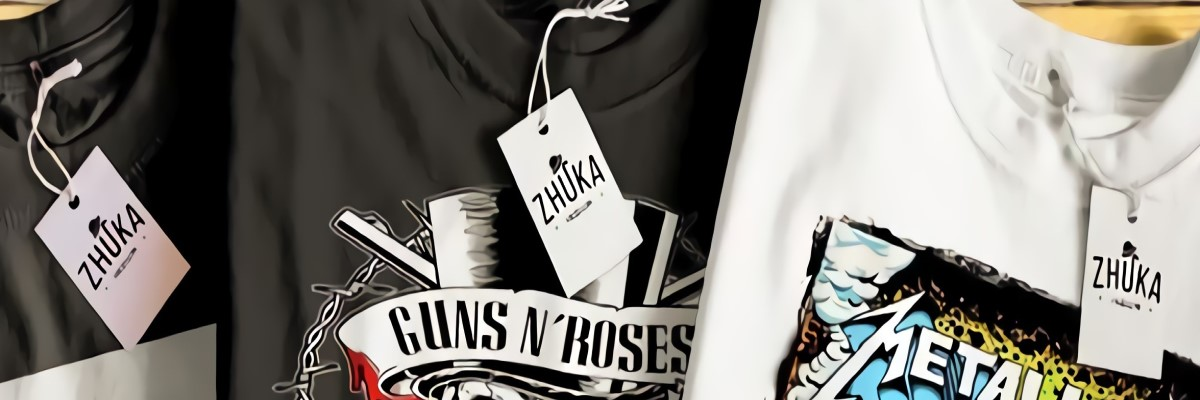
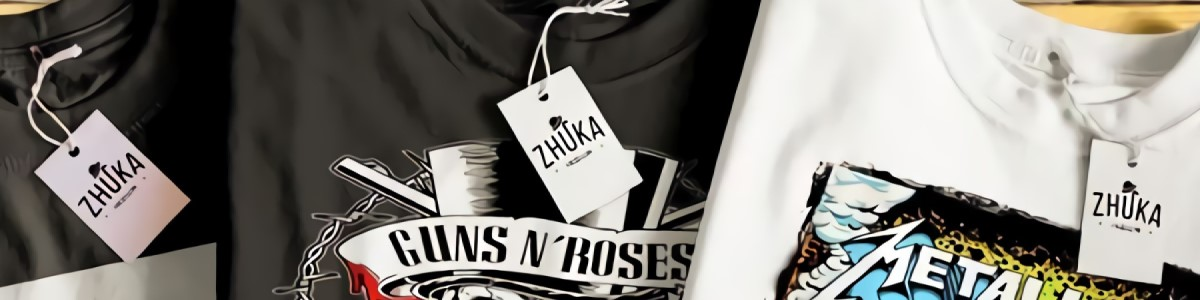
Primera subida

diff --git a/css/style.css b/css/style.css
@@ -65,7 +65,7 @@ body a:hover{
 	-moz-background-size:cover;
 	-o-background-size:cover;
 	-ms-background-size:cover;
-	min-height:800px;
+	min-height:400px;
 }
 .banner1{
 	background:url(../images/banner1.jpg) no-repeat 0px 0px;
@@ -1493,7 +1493,7 @@ a.list-group-item:hover, a.list-group-item:focus {
 		-moz-background-size: cover;
 		-o-background-size: cover;
 		-ms-background-size: cover;
-		min-height: 760px;
+		 
 	}
 }
 @media (max-width:1366px){
@@ -2073,7 +2073,7 @@ a.list-group-item:hover, a.list-group-item:focus {
 		-moz-background-size: cover;
 		-o-background-size: cover;
 		-ms-background-size: cover;
-		min-height: 540px;
+		min-height: 400px;
 	}
 }
 @media (max-width:320px){

diff --git a/index.html b/index.html
@@ -55,7 +55,7 @@
 <body>
 <!-- PRINCIPAL -->
 	<div class="banner">
-		<div class="container">
+		<div class="container" >
 			<div class="header-nav">
 				<nav class="navbar navbar-default">					 
 					<div class="navbar-header">
@@ -99,7 +99,7 @@
 				 
 				</div>
 				<div class="col-md-6 about-grid-right">
-					<img src="images/quienes.jpg" alt=" " class="img-responsive" />
+					<img src="images/quienes.jpg" alt="" class="img-responsive" />
 				</div>
 				<div class="clearfix"> </div>
 			</div>
